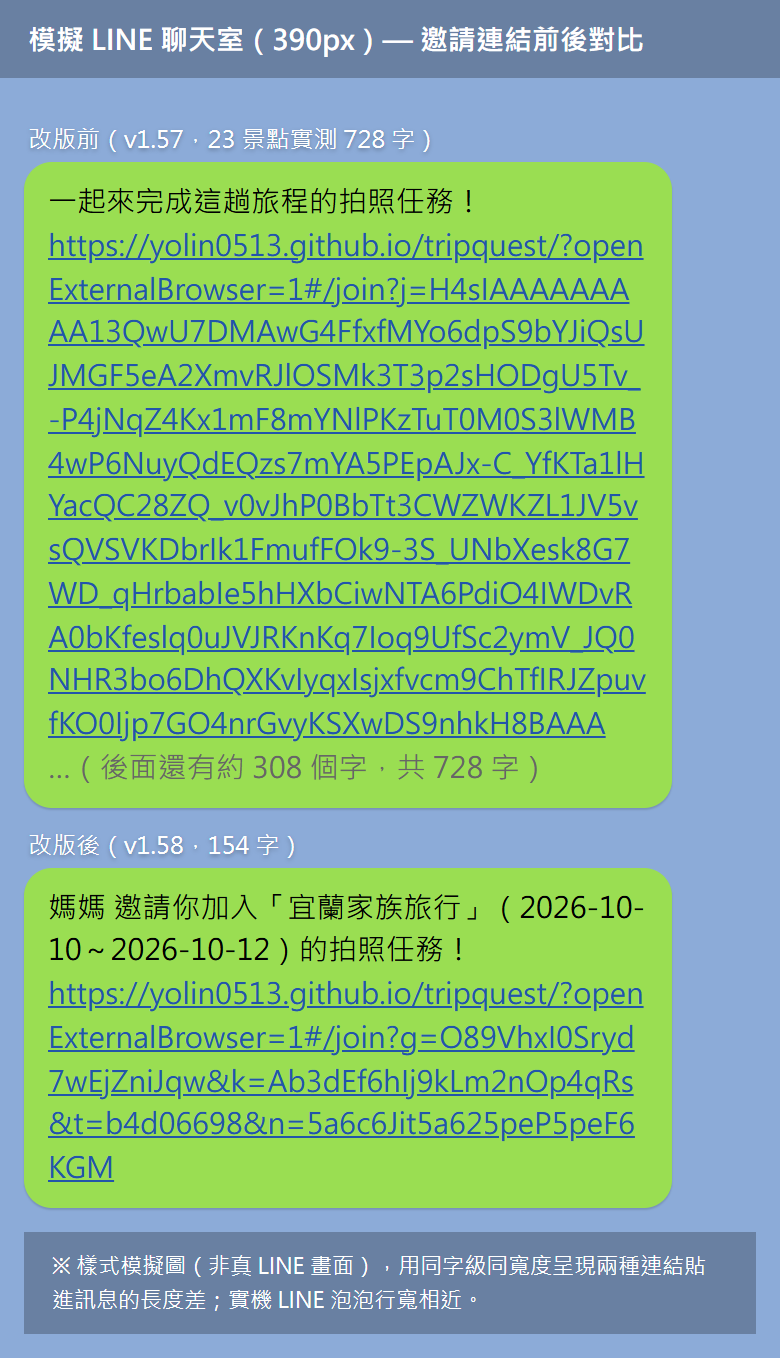
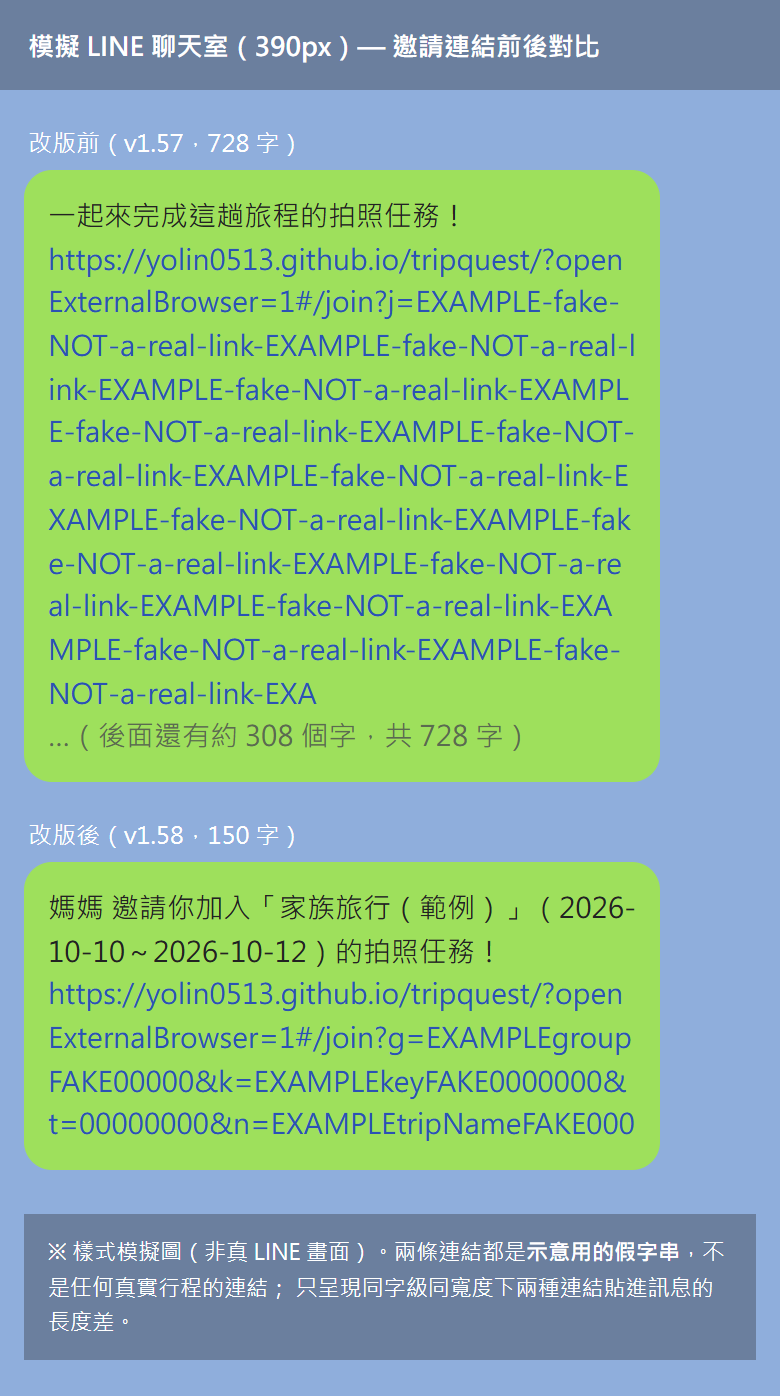
chore：換掉一張含舊格式連結的示意圖；plantest 跨天拖曳改成等條件
- 邀請連結前後長度對比圖改由 scripts/inviteshot.mjs 產生，連結一律是假字串
  （原圖的舊格式連結無法確認是否為真實連結；舊圖仍在歷史裡，未改寫歷史）
- plantest：捲動改等「被拖的那一列排進第 3 天」（新增前置斷言）、放手後輪詢到存檔寫入，
  不再用固定時間；連跑 3 次綠，兩條突變各自紅
- 底線＋受影響 7/49 支綠 —— 這不是全綠；audittest 16 項綠。不 bump、不部署程式

diff --git a/docs/STATUS.md b/docs/STATUS.md
@@ -8,7 +8,13 @@
 **現在正在做什麼**：沒有進行中的工作。`docs/SPEC_分帳金額守恆.md` 四段都已上線——R0（v1.74.3）、
 R1（v1.74.4）、R2–R4（v1.74.5）、R5（v1.74.6），見下面各版那一節。
 **個資普查已回報（2026-09-23），結果不進 repo**（`docs/SPEC_個資普查.md`：只回報、不改；要不要清由統籌者另寫規格）。
-**下一件**：`docs/SPEC_旅伴移除後的帳.md`（統籌者放的，未追蹤、未開工；等 Dispatch 交辦）。
+**下一件**：`docs/SPEC_旅伴移除後的帳.md`（統籌者放的，未追蹤、未開工；**等 Yolin 看過、Dispatch 轉達才開工**）。
+真實出遊日期的清理：等統籌者的規格（牽涉 fixture 與斷言），先不要動。
+**一張示意圖換掉了（2026-09-23，Dispatch 指示、不等 Yolin）**：普查時發現一張早期的示意圖裡有一段舊格式邀請連結
+（舊格式的連結含群組祕鑰），**無法確認它是不是真實行程的連結**（試著解開失敗，比較像模擬字串，但只是推論）。
+風險不對稱，所以換成 `scripts/inviteshot.mjs` 產生的假字串版本。**舊圖仍在 git 歷史裡**、GitHub 舊物件也撈得到；
+改寫已推送的歷史要 Yolin 點頭，這次沒有做。真正能消除風險的是祕鑰輪替（「等 Yolin 回覆」⑥）。
+（哪一張、哪個 commit 不寫在這裡——public repo 裡不指路；細節在給 Dispatch 的回報裡。）
 **待決（只查只回報，要不要修另外決定）**：旅伴被移除之後，他在別人那筆花費裡的分攤仍在帳上——結清方案
 出現「（未指定） 給 阿公」，「每個人」那一區不列他。實測見「v1.74.5」那一節。
 **全面檢測**：2026-09-23 在 v1.74.6（`2c73a85`）跑完，完整的鏈 49/49 支全綠＋`sweep` 67 項全綠
@@ -240,7 +246,10 @@ layouttest 516s／chunktest 196s／scrolltest 181s／screenshots 151s／imgtest 
 **這次全面檢測的第一次跑紅在 `plantest`**（第 18/49 支，後面沒跑）：「拖到畫面外的第 3 天」那一條，自動捲了
 4600px、景點仍在第 1 天。同一版單獨重跑 3 次都綠，第二次完整的鏈也綠 → 偶發失敗，4 次裡紅 1 次。
 紅的是調整行程頁（`plan.js`）的觸控拖曳，這幾版沒動過；那條測試靠 160 次觸控移動加時間等待，當時同一台
-機器上還有別的專案在跑測試。**原因沒查到，是推論**；再紅一次就該把那條的等待改成等條件、不等時間。
+機器上還有別的專案在跑測試。**原因沒查到，是推論**：放手後 `commitFromDOM` 逐筆 `await store.patch`，被拖的
+那一列排在後面，固定等 900ms 時還沒寫到。**2026-09-23 已改成等條件**（Dispatch 指示，不等它再紅）：捲動改等
+「被拖的那一列排進第 3 天」（新增一條前置斷言，等不到會明講）、放手後輪詢到存檔寫入為止（上限 10 秒）。
+連跑 3 次綠；兩條突變（放手後不存檔、自動捲動速度 0）各自紅。
 （v1.74.3 寫 T0 時 `settletest` 也各有一次等分帳頁、等表單逾時，之後沒再出現，同樣沒查到原因。）
 
 **整套上限：距上次全面檢測 5 版，或 20 條新斷言從未全套跑過**（2026-09-21 實測後訂：整套 32 分鐘
